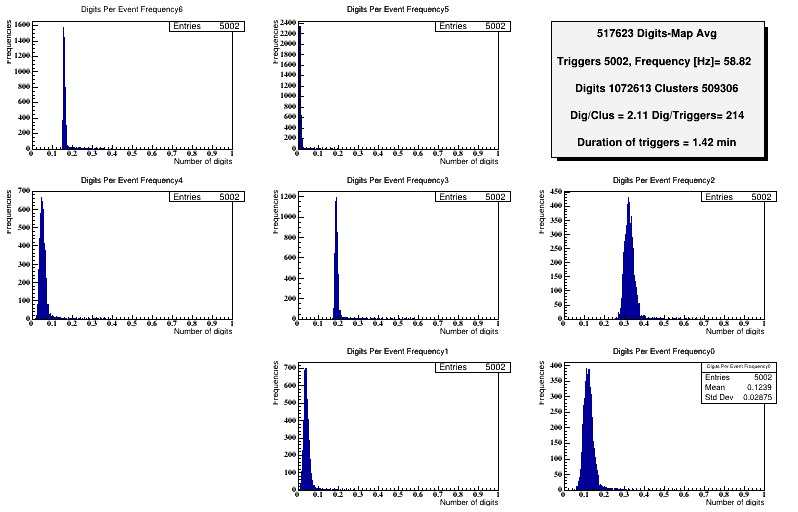
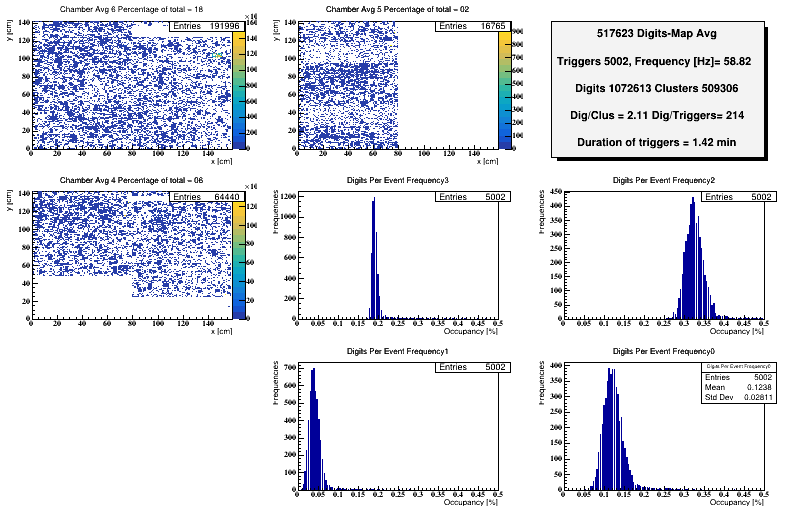
ok range for occ | need to fix digMap..

diff --git a/517623/readClusters.C b/517623/readClusters.C
@@ -211,16 +211,16 @@ void readClusters(int nEvents)
     //strigGraph.reset(new TGraph(, , 160, 0, 159, 144, 0, 143));
 
   const char* digEvtFreqStr = Form("Digits Per Event Frequency%i",i);
-  digPerEvent[i].reset(new TH1F(digEvtFreqStr, digEvtFreqStr, 500, 0., 1.));
+  digPerEvent[i].reset(new TH1F(digEvtFreqStr, digEvtFreqStr, 500, 0., .5));
   //digPerEvent[i].reset(new TH1F(digEvtFreqStr, digEvtFreqStr, 500, 100*(avgDigits-150.)/(144*160), 100*(avgDigits+150.)/(144*160)));
-    digPerEvent[i]->SetXTitle("Number of digits");
+    digPerEvent[i]->SetXTitle("Occupancy [%]");
     digPerEvent[i]->SetYTitle("Frequencies");
    
   }
   
 
   const char* trigTimeStr = Form("Trigger Time Freq");
-  triggerTimeFreqHist.reset(new TH1F(trigTimeStr, trigTimeStr, numTriggers, 0., 500000.));
+  triggerTimeFreqHist.reset(new TH1F(trigTimeStr, trigTimeStr, numTriggers*2, 0., 1000000.));
   triggerTimeFreqHist->SetXTitle("Trigger Time");
   triggerTimeFreqHist->SetYTitle("Frequency");
  
@@ -493,11 +493,12 @@ void readClusters(int nEvents)
     digMapAvg[iCh]->SetTitle(Form("Chamber Avg %i Percentage of total = %02.0f", iCh, pTotalDigs));
     digMapAvg[iCh]->Draw("Colz");
 
-    const auto maxPos = digPerEvent[iCh]->GetMaximumBin();
-    //digPerEvent[iCh]->SetBins(500, 0., 0.5);
-    digPerEvent[iCh]->Draw();
 
-    cout << "avg "  << avgDig[iCh] << " Num digs " << digPerEvent[iCh]->GetEntries() << endl;
+    if(pos > 4){
+
+      digPerEvent[iCh]->Draw();
+
+      cout << "avg "  << avgDig[iCh] << " Num digs " << digPerEvent[iCh]->GetEntries() << endl;}
   }
 
 
@@ -816,6 +817,7 @@ void setPadChannel(bool (&padDigOff)[7][160][144], int chamber, int xLow, int xH
     }
   }
 }
+
 
 
 
